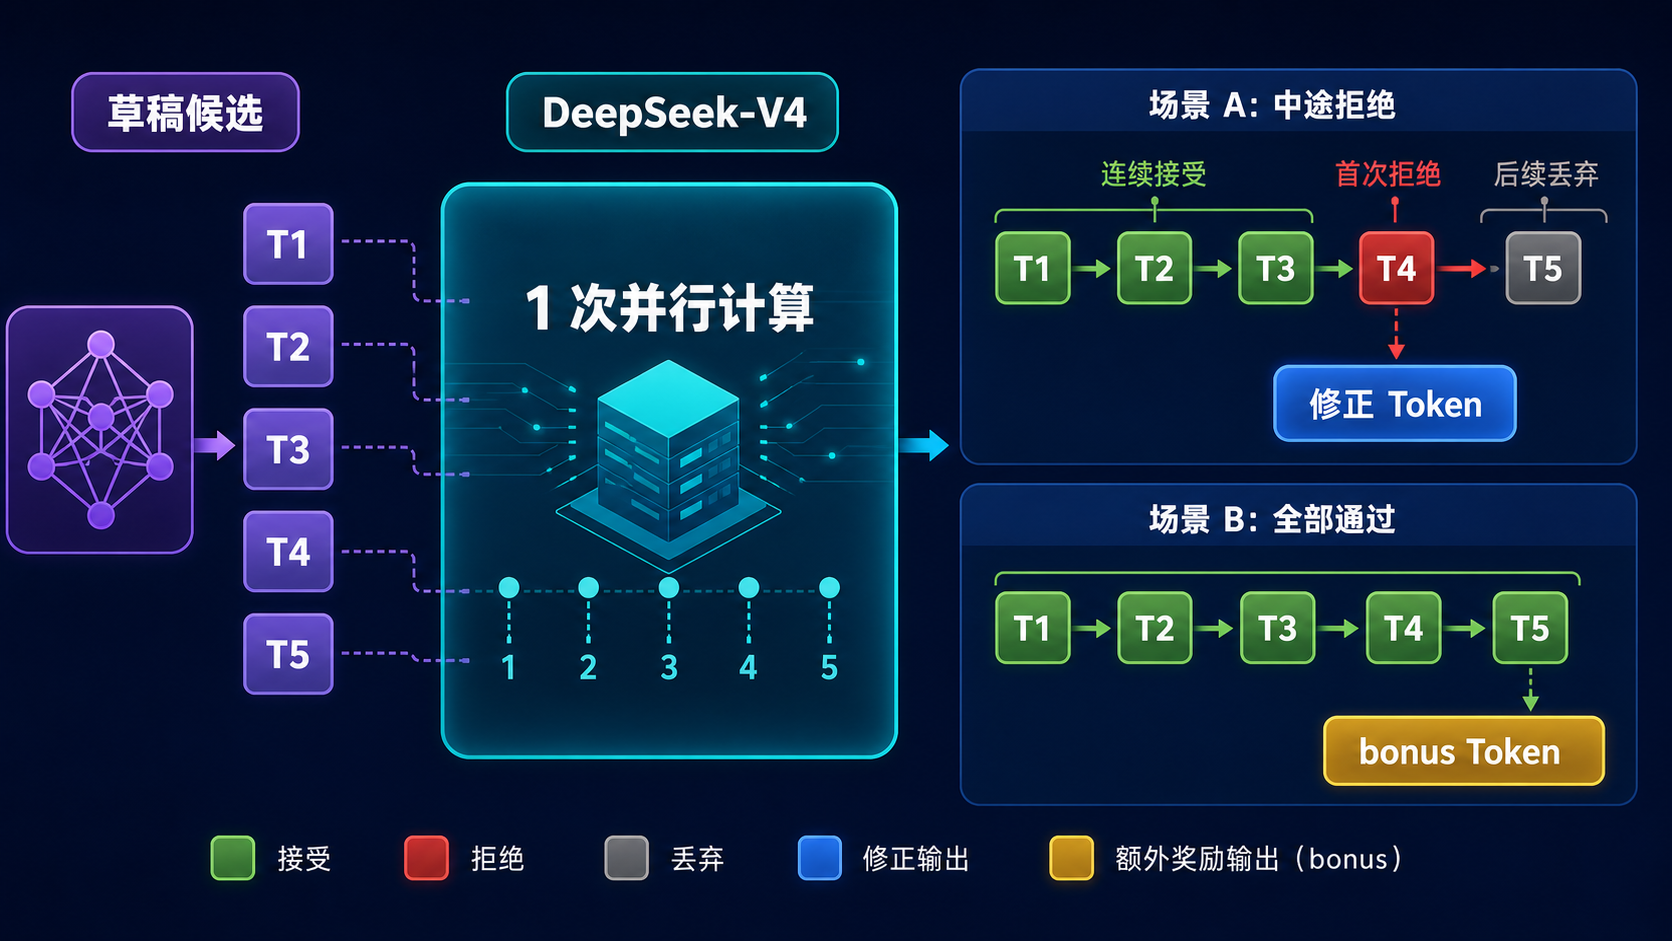
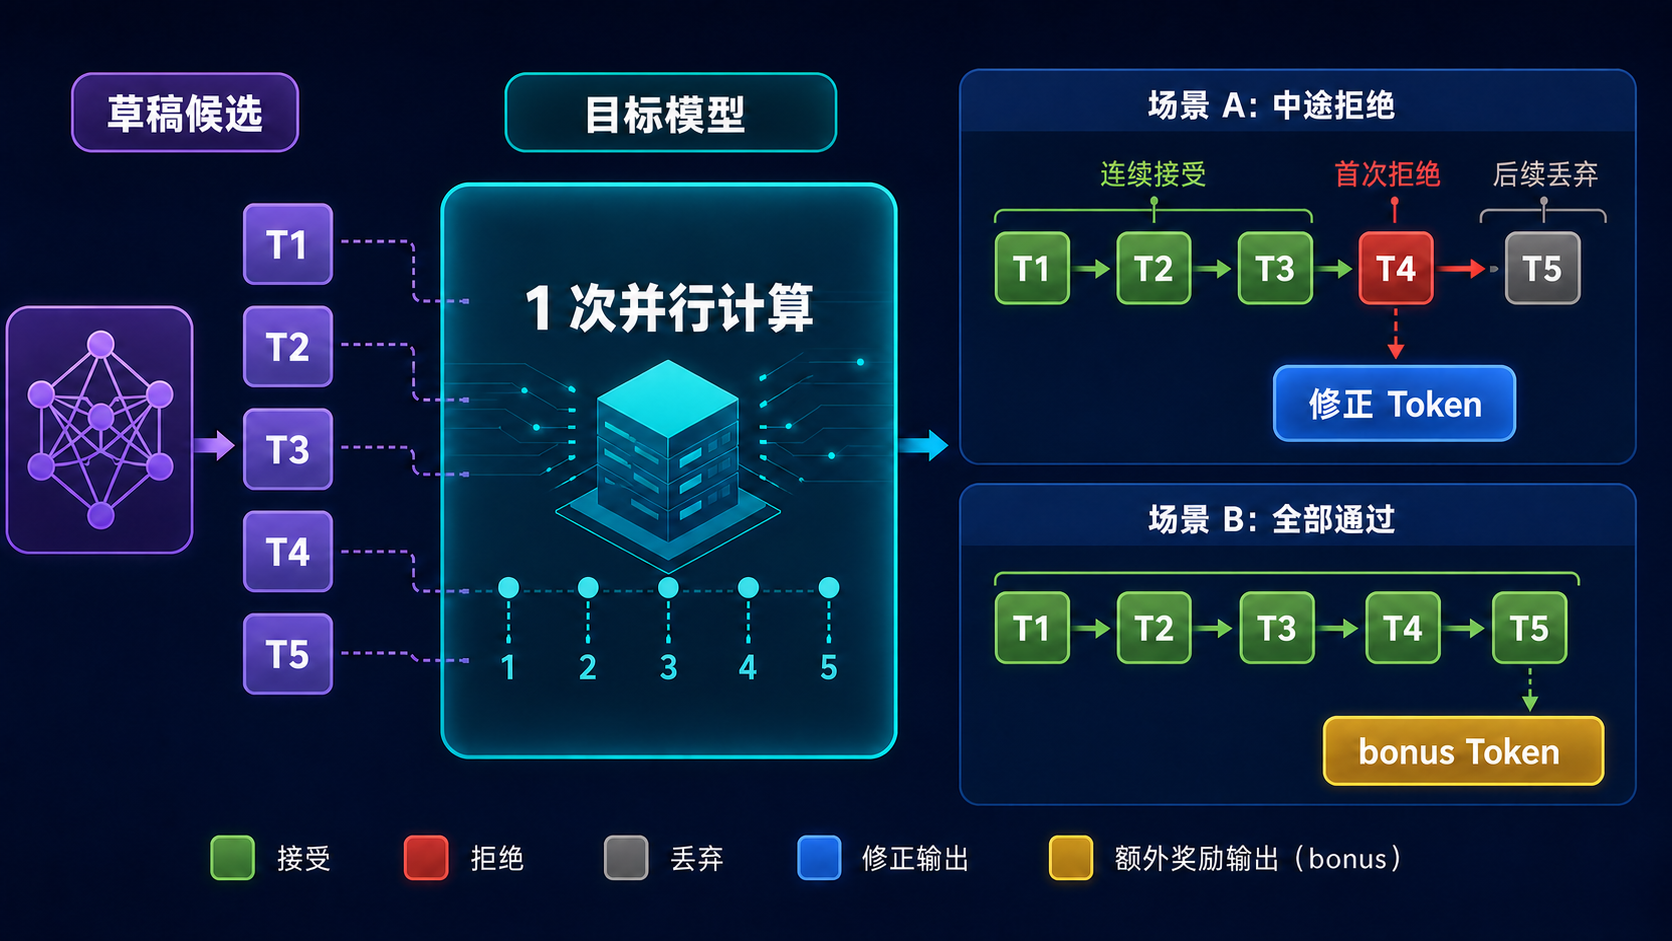
Use neutral target model labels in DSpark guide

diff --git a/一文搞懂 DSpark：小模型先猜，主模型验证，为什么反而更快？.md b/一文搞懂 DSpark：小模型先猜，主模型验证，为什么反而更快？.md
@@ -1,6 +1,6 @@
 # 一文搞懂 DSpark：小模型先猜，主模型验证，为什么反而更快？
 
-> **一句话理解：DSpark 让草稿模型先提出候选，再让 DeepSeek-V4 一次验证多个位置，用少量便宜计算减少主模型的串行等待。**
+> **一句话理解：DSpark 让草稿模型先提出候选，再让目标模型一次验证多个位置，用少量便宜计算减少主模型的串行等待。**
 
 ![DSpark 总体原理](assets/dspark/01-overview.png)
 
@@ -34,7 +34,7 @@
 
 ```text
 DSpark 草稿模型：提前提出候选
-DeepSeek-V4：验证并决定最终输出
+目标模型：验证并决定最终输出
 ```
 
 可以把它们想成助教和老师：
@@ -48,7 +48,7 @@ DeepSeek-V4：验证并决定最终输出
 
 最重要的一点：
 
-> **草稿模型只有建议权，DeepSeek-V4 拥有决定权。**
+> **草稿模型只有建议权，目标模型拥有决定权。**
 
 草稿模型也不是随便找来的通用小模型，而是专门学习目标模型的输出行为。两者越匹配，草稿越容易通过验证。
 
@@ -56,7 +56,7 @@ DeepSeek-V4：验证并决定最终输出
 
 ## 3. 主模型也要重新计算，为什么还能更快？
 
-是的，DeepSeek-V4 仍然要计算。
+是的，目标模型仍然要计算。
 
 区别在于：
 
@@ -139,9 +139,9 @@ DSpark 使用“并行主干 + 轻量顺序头”。
 
 ---
 
-## 6. DeepSeek-V4 如何验证草稿？
+## 6. 目标模型如何验证草稿？
 
-草稿已经存在后，DeepSeek-V4 可以通过一次前向计算，同时得到多个位置的预测结果。
+草稿已经存在后，目标模型可以通过一次前向计算，同时得到多个位置的预测结果。
 
 注意：
 
@@ -178,7 +178,7 @@ T1 ✓  T2 ✓  T3 ✓  T4 ✗  T5 丢弃
 
 这样才能保证：
 
-> **加速后的结果仍服从 DeepSeek-V4 原来的输出分布。**
+> **加速后的结果仍服从目标模型原来的输出分布。**
 
 本文不展开数学证明，只需要记住：草稿模型负责提议，目标模型的概率分布仍然是最终标准。
 
@@ -237,7 +237,7 @@ DSpark 还包含两个重要角色：
 满足下面这些条件时更容易加速：
 
 - 草稿模型足够快；
-- 草稿与 DeepSeek-V4 足够匹配；
+- 草稿与目标模型足够匹配；
 - 每轮能连续接受多个 Token；
 - 送检长度选择合理。
 
@@ -264,7 +264,7 @@ Prefill：不是主要优化对象
 Decode：DSpark 的主要加速对象
 ```
 
-DSpark 不会增加 DeepSeek-V4 的知识或能力，它只负责让在线生成更快。
+DSpark 不会增加目标模型的知识或能力，它只负责让在线生成更快。
 
 ---
 
@@ -273,7 +273,7 @@ DSpark 不会增加 DeepSeek-V4 的知识或能力，它只负责让在线生成
 ```text
 用户请求
    ↓
-DeepSeek-V4 完成 Prefill
+目标模型完成 Prefill
    ↓
 DSpark 并行主干产生候选块
    ↓
@@ -283,7 +283,7 @@ DSpark 并行主干产生候选块
    ↓
 调度器裁剪送检长度
    ↓
-DeepSeek-V4 一次并行计算
+目标模型一次并行计算
    ↓
 按前缀规则验收
    ↓
@@ -292,7 +292,7 @@ DeepSeek-V4 一次并行计算
 
 一句话总结：
 
-> **DSpark 用并行主干快速起草，用轻量顺序头提高连贯性，再按置信度和服务器负载决定验证多长，最终由 DeepSeek-V4 统一验证。**
+> **DSpark 用并行主干快速起草，用轻量顺序头提高连贯性，再按置信度和服务器负载决定验证多长，最终由目标模型统一验证。**
 
 ---
 
